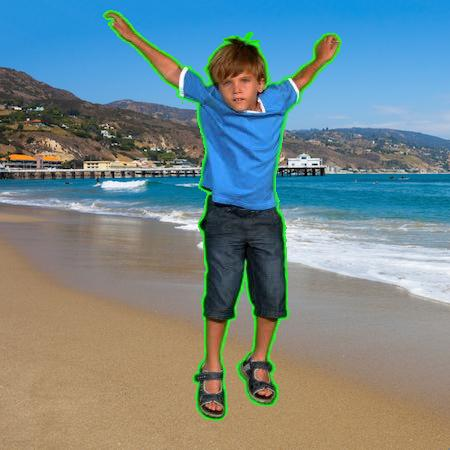
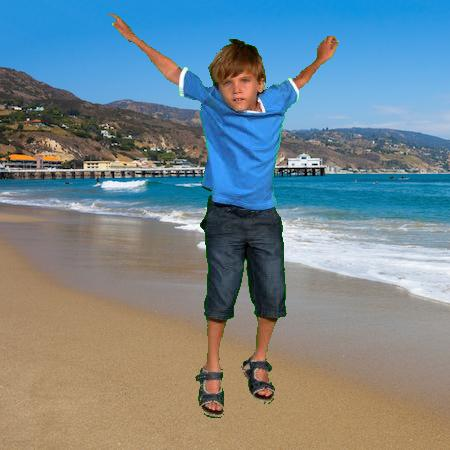
finished colour_helper.py

Changed region(s): [[0.2178, 0.0, 0.7778, 0.9644], [0.9956, 0.9956, 1.0, 1.0]]

diff --git a/Images/colour_helper.py b/Images/colour_helper.py
@@ -16,5 +16,5 @@ def pixel_to_string(pixel: tuple) -> list:
     """
     r, g, b = pixel
 
-    if g > 240 and r < 45 and b < 50:
+    if g > 99 and r < 120 and b < 120:
         return "green"
